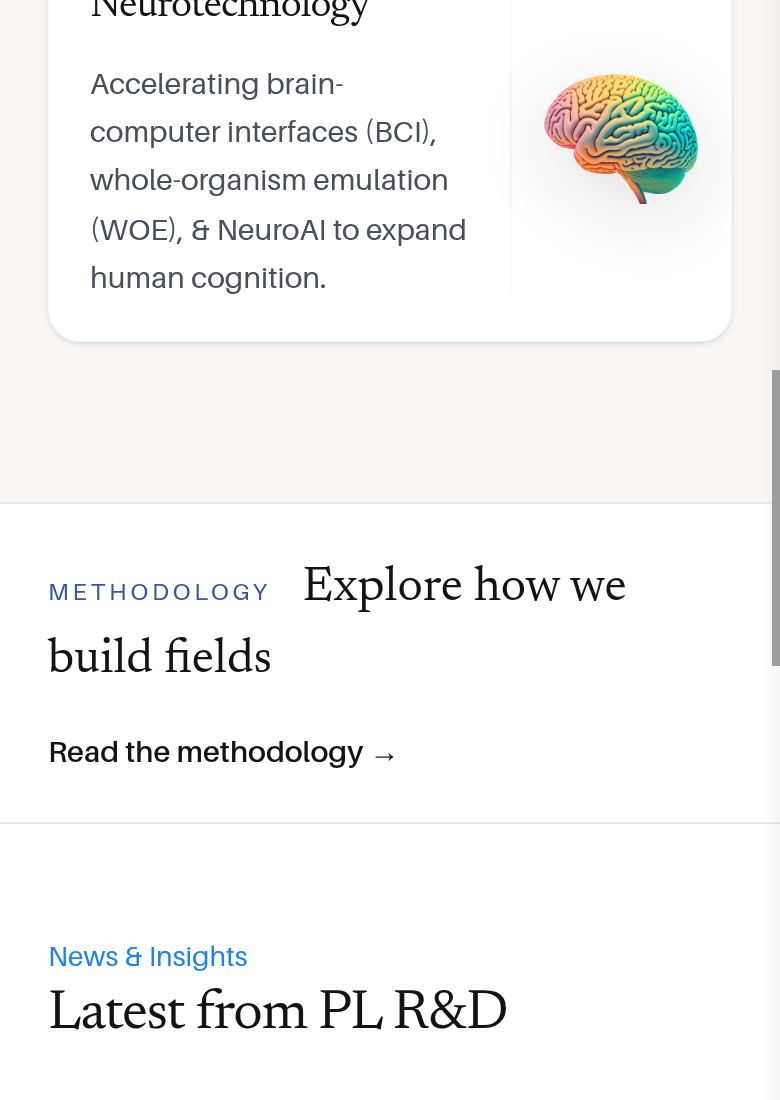
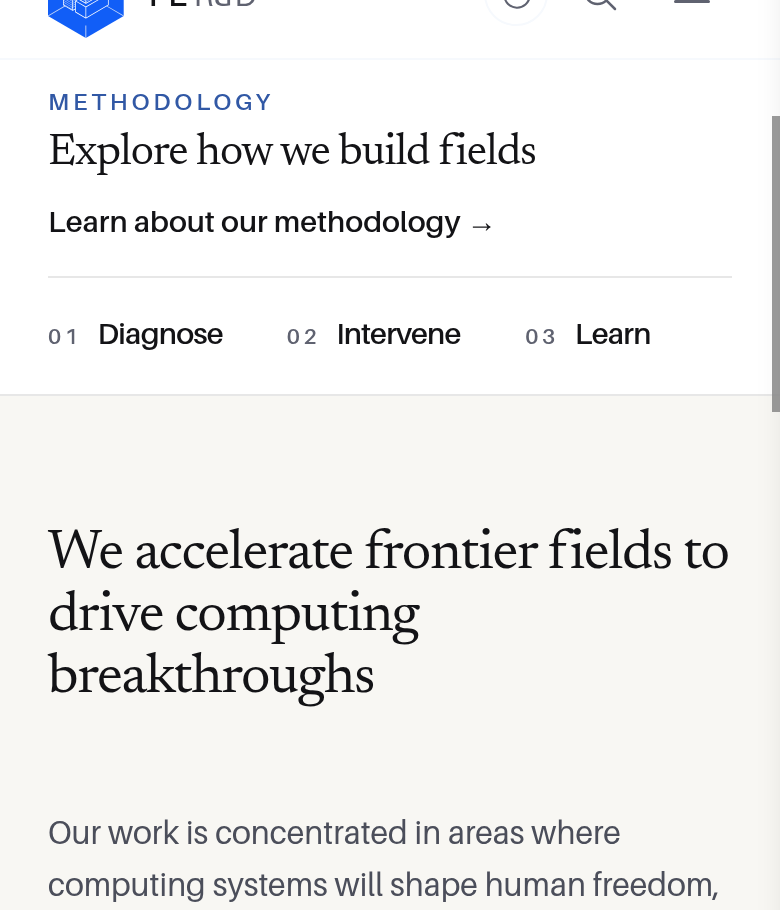
feat: preview the field loop above the focus areas
Move the methodology band above the four focus areas, show Diagnose,
Intervene, and Learn in the band, and rename the link to Learn about
our methodology.

diff --git a/src/app/page.tsx b/src/app/page.tsx
@@ -5,6 +5,7 @@ import { publications, talks, listedBlogPosts as blogPosts } from '@/lib/content
 import MarkdownContent from '@/components/MarkdownContent'
 import { fetchPage, getSection } from "@/lib/indexer"
 import { FOCUS_AREA_DESCRIPTIONS } from '@/lib/focus-area-descriptions'
+import { FIELD_LOOP_STEPS, methodologyHref } from '@/lib/interventions'
 
 /** Focus-area hero illustrations floating above each card (replaces the hex cloud). */
 const FOCUS_AREA_IMAGES: Record<string, string> = {
@@ -173,6 +174,38 @@ export default async function HomePage() {
 
     </div>
 
+    <Link
+      href={methodologyHref()}
+      className="block border-y border-black/10 bg-white transition-colors hover:bg-blue/10 dark:border-white/15 dark:bg-neutral-900"
+    >
+      <div className="mx-auto flex max-w-6xl flex-col gap-4 px-6 py-5 lg:py-6">
+        <div className="flex flex-wrap items-baseline justify-between gap-x-6 gap-y-2">
+          <div className="flex min-w-0 flex-wrap items-baseline gap-x-4 gap-y-1">
+            <span className="text-[12px] font-semibold uppercase tracking-[.16em] text-dark-blue dark:text-blue">
+              Methodology
+            </span>
+            <span className="font-serif text-[22px] leading-tight tracking-tight sm:text-[24px]">
+              Explore how we build fields
+            </span>
+          </div>
+          <span className="shrink-0 text-[15px] font-semibold">Learn about our methodology →</span>
+        </div>
+        <ol className="grid grid-cols-3 gap-4 border-t border-black/10 pt-4 sm:gap-8 dark:border-white/10">
+          {FIELD_LOOP_STEPS.map((step) => (
+            <li key={step.label} className="min-w-0">
+              <div className="flex items-baseline gap-2">
+                <span className="text-[11px] font-semibold tracking-[0.16em] text-gray-500">{step.n}</span>
+                <span className="text-[15px] font-semibold tracking-tight text-black sm:text-[17px] dark:text-white">
+                  {step.label}
+                </span>
+              </div>
+              <p className="mt-1 hidden text-[13px] leading-snug text-gray-500 sm:block">{step.blurb}</p>
+            </li>
+          ))}
+        </ol>
+      </div>
+    </Link>
+
     {/* ── Focus Areas (full-bleed gray) ── */}
     <div id="focus-areas" className="bg-gray-100 scroll-mt-20">
       <div className="max-w-6xl mx-auto px-6 pb-20 lg:pb-28 pt-16 lg:pt-24">
@@ -215,19 +248,6 @@ export default async function HomePage() {
         </div>
       </div>
     </div>
-
-    <Link
-      href="/methodology/"
-      className="block border-y border-black/10 bg-white hover:bg-blue/10 transition-colors dark:border-white/15 dark:bg-neutral-900"
-    >
-      <div className="max-w-6xl mx-auto px-6 py-6 flex flex-wrap gap-4 items-center justify-between">
-        <div>
-          <span className="text-[12px] uppercase tracking-[.16em] text-dark-blue dark:text-blue mr-4">Methodology</span>
-          <span className="font-serif text-[24px]">Explore how we build fields</span>
-        </div>
-        <span className="text-[15px] font-semibold">Read the methodology →</span>
-      </div>
-    </Link>
 
     <div className="max-w-6xl mx-auto px-6">
       {/* ── Latest Insights ── */}

diff --git a/src/components/ImpactMethodologyTabs.tsx b/src/components/ImpactMethodologyTabs.tsx
@@ -3,24 +3,13 @@
 import { Children, isValidElement, useEffect, useId, useRef, useState, type ReactNode } from 'react'
 import styles from '@/app/impact-preview-eb61fba1b98e/page.module.css'
 import { navigateImpact, useImpactNavigation } from '@/components/useImpactNavigation'
+import { FIELD_LOOP_STEPS } from '@/lib/interventions'
 
-const TABS = [
-  {
-    id: 'diagnose',
-    label: 'Diagnose',
-    blurb: 'Name the binding constraint.',
-  },
-  {
-    id: 'intervene',
-    label: 'Intervene',
-    blurb: 'Apply the lever that matches that bottleneck.',
-  },
-  {
-    id: 'learn',
-    label: 'Learn',
-    blurb: 'Read field velocity, then check the inflection points.',
-  },
-] as const
+const TABS = FIELD_LOOP_STEPS.map((step) => ({
+  id: step.label.toLowerCase() as 'diagnose' | 'intervene' | 'learn',
+  label: step.label,
+  blurb: step.blurb,
+}))
 
 type TabId = (typeof TABS)[number]['id']
 

diff --git a/src/lib/interventions.ts b/src/lib/interventions.ts
@@ -148,6 +148,24 @@ export const INTERVENTION_STAGE_LABEL: Record<InterventionStage, string> = {
   completed: 'Completed',
 }
 
+export const FIELD_LOOP_STEPS = [
+  {
+    n: '01',
+    label: 'Diagnose',
+    blurb: 'Name the binding constraint.',
+  },
+  {
+    n: '02',
+    label: 'Intervene',
+    blurb: 'Apply the lever that matches that bottleneck.',
+  },
+  {
+    n: '03',
+    label: 'Learn',
+    blurb: 'Read field velocity, then check the inflection points.',
+  },
+] as const
+
 export const INTERVENTION_METHOD_STEPS = [
   {
     n: 'Diagnose',
